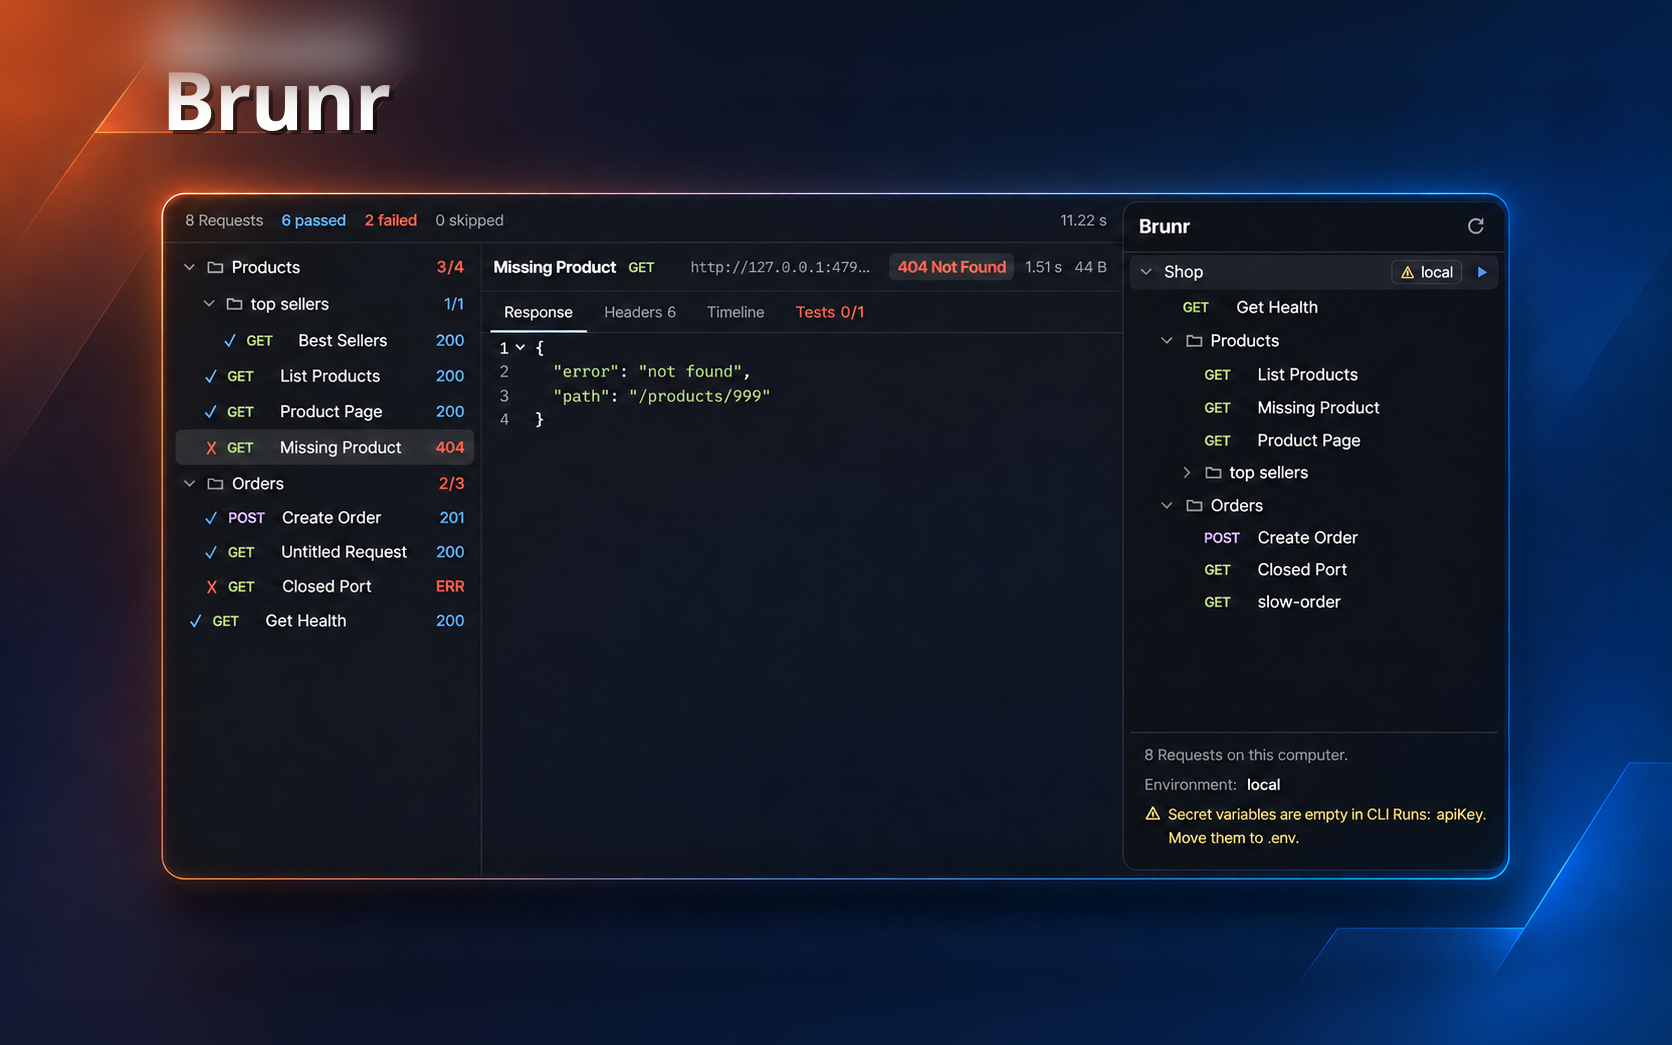
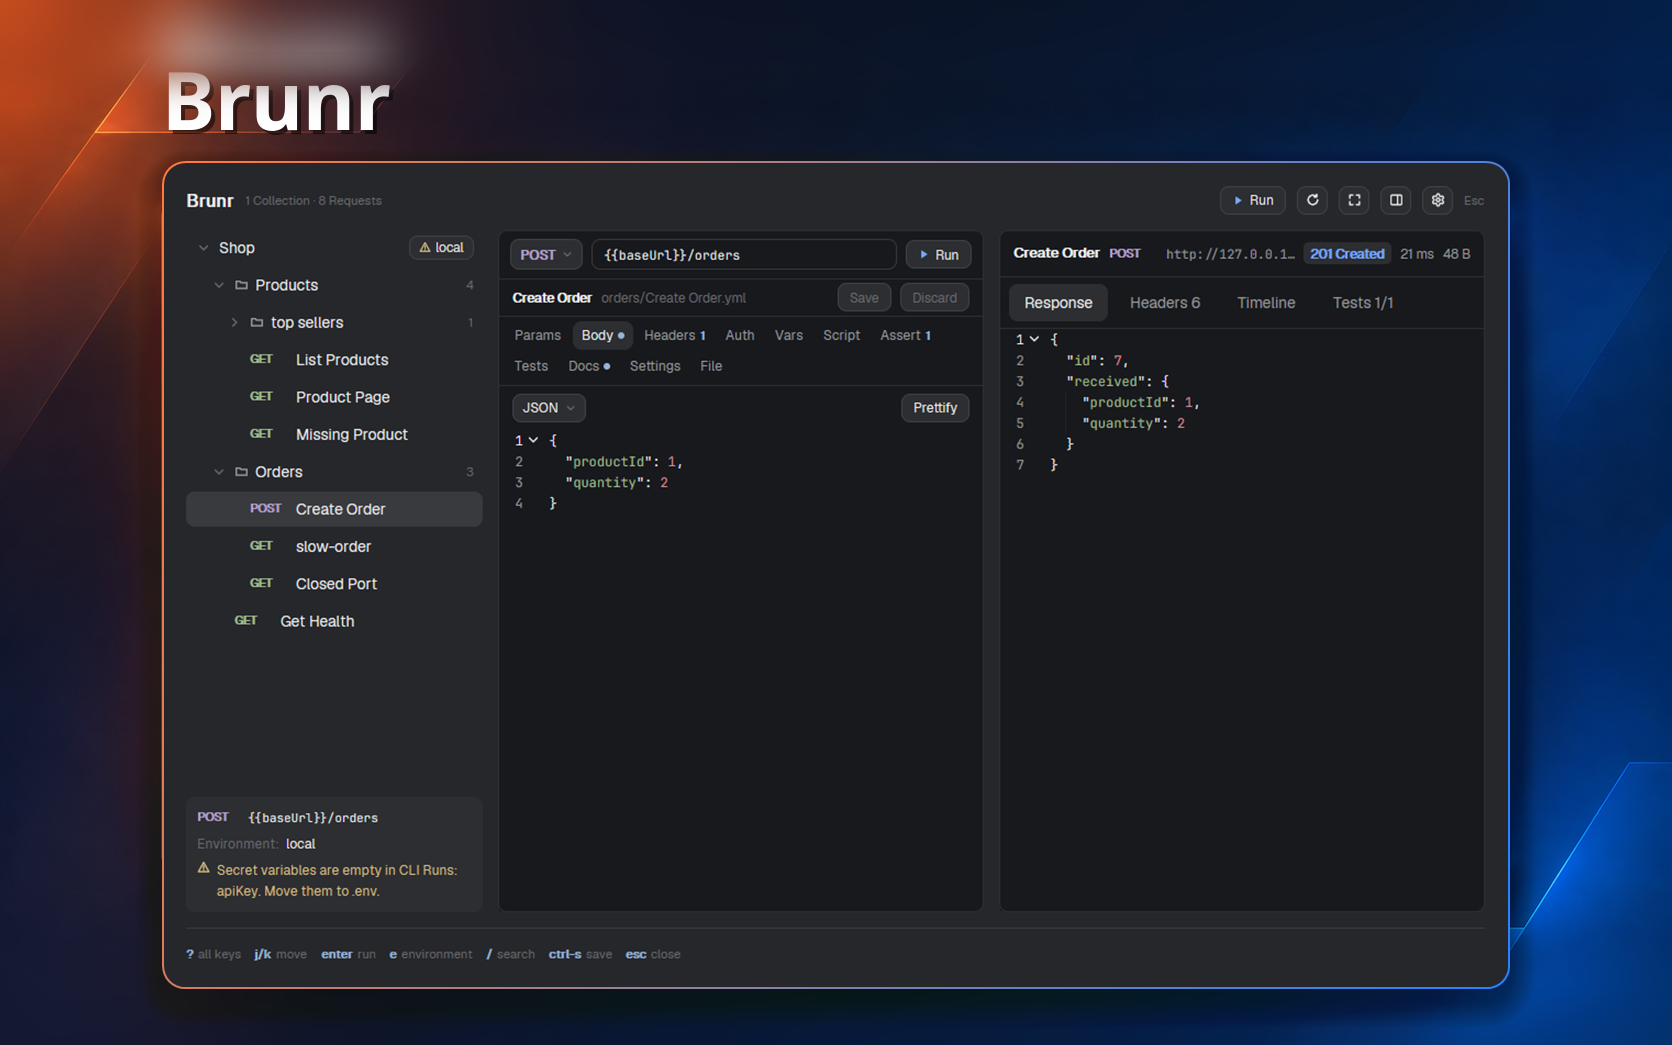
Brunr: new preview of the dialog

Changed region(s): [[0.0622, 0.1531, 0.933, 0.9799], [0.5287, 0.3675, 0.5909, 0.4287], [0.3421, 0.4287, 0.4043, 0.49]]

diff --git a/brunr/RECIPE.md b/brunr/RECIPE.md
@@ -6,7 +6,7 @@ A dialog over the Herdr window, or a tab of its own, with three columns: your Br
 
 ## What you see
 
-The preview is from an earlier build, before the dialog: it shows a Response pane on the left and a Brunr side panel on the right. The dialog described here keeps the tree's rows, the Response side's look and the colours shown there, and adds the Request column between them. It has no side panel.
+The preview shows the dialog with a made-up Shop Collection: the tree on the left with Create Order selected, the Request column on its Body tab with a JSON body, and the Response column with a 201 Created Response.
 
 The dialog is a centred box 96% of the window wide, up to 1800px, and 92% of the window high, or the whole window in full screen or as a tab. A press beside the box closes it. Its frame has 22px padding, a 16px radius, a 1px `border`, a `popover` fill, 14px between sections and 13px text. Top to bottom:
 
